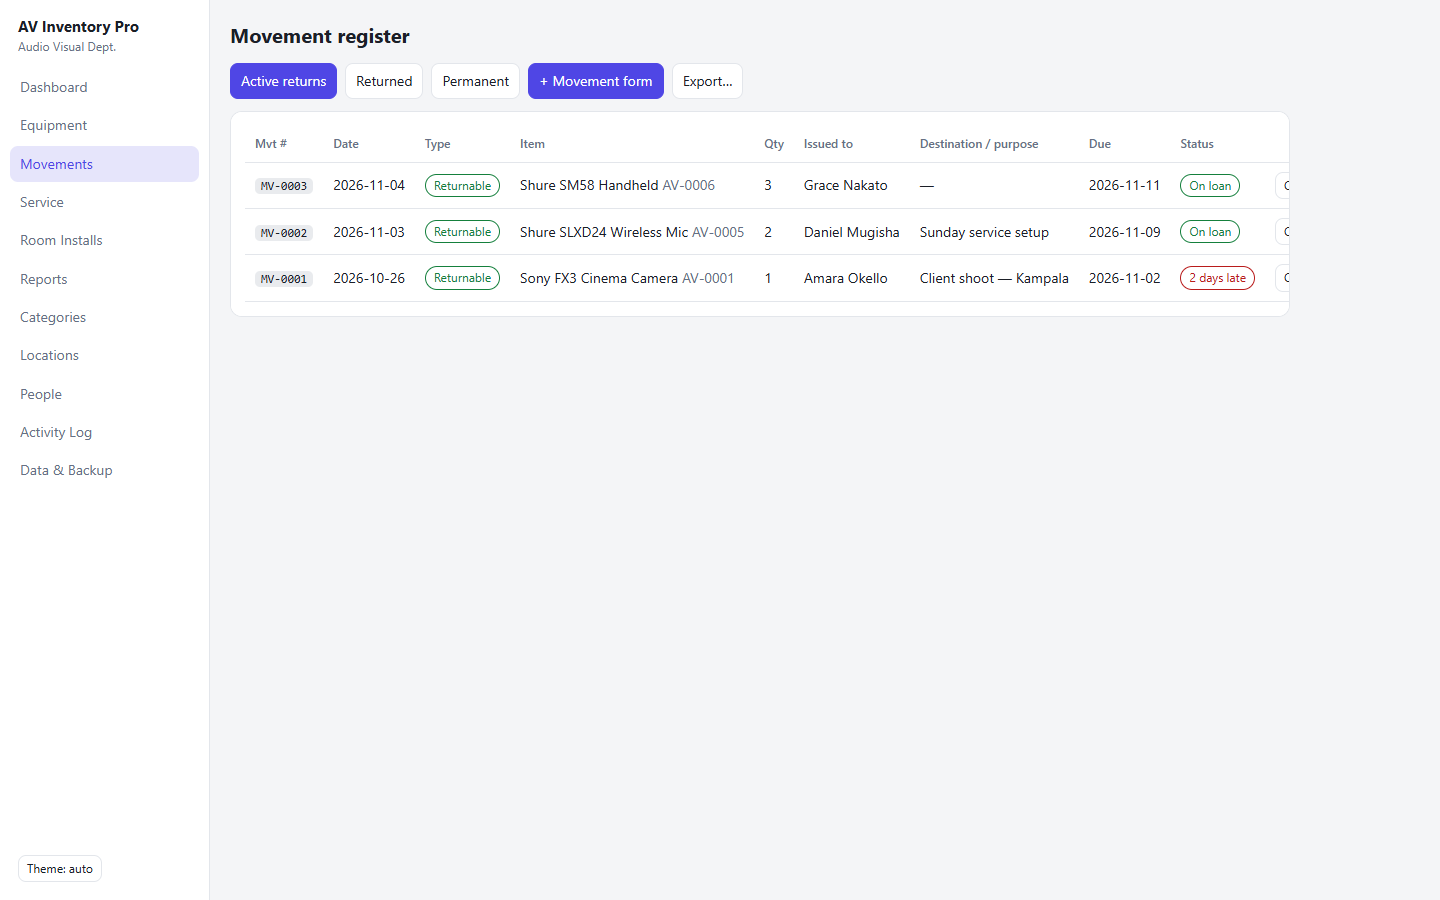
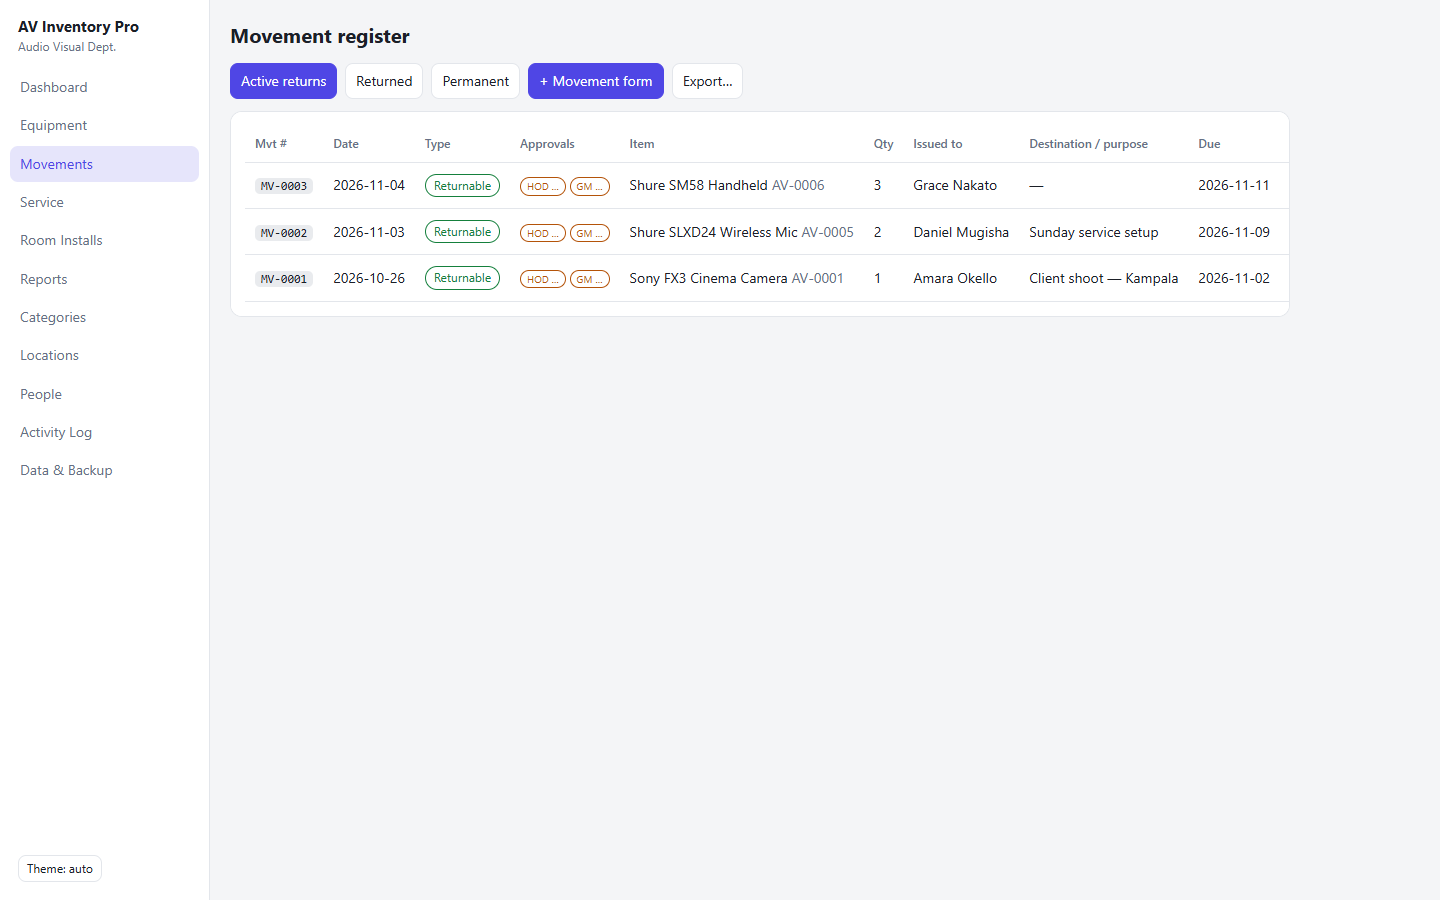
Printable movement form (AV-INV-MF-01) with HOD & GM/AGM approval blocks; in-app approval tracking (chips + dialog); Save & print form

Changed region(s): [[0.3438, 0.2489, 0.875, 0.3422], [0.3438, 0.1556, 0.875, 0.2178]]

diff --git a/app.js b/app.js
@@ -36,7 +36,7 @@ function migrate(s) {
     if (!i.sku) i.sku = nextSku(used);
     i.serials ??= ''; i.supplier ??= ''; i.purchased ??= ''; i.nextsvc ??= ''; i.notes ??= '';
   });
-  (s.co || []).forEach(c => { c.qty = c.qty || 1; c.type ??= 'returnable'; c.mvt ??= ''; c.reason ??= ''; c.dest ??= ''; });
+  (s.co || []).forEach(c => { c.qty = c.qty || 1; c.type ??= 'returnable'; c.mvt ??= ''; c.reason ??= ''; c.dest ??= ''; c.appr = normAppr(c.appr); });
   (s.people || []).forEach(p => { p.contact ??= ''; });
   return s;
 }
@@ -286,6 +286,9 @@ function delItem(id) {
 }
 
 /* ---------- movement register (returnable & permanent) ---------- */
+const ORG = { name: 'Stereo 1 Production', sub: 'Sound · Lighting · Staging · Live-stream AV — Kampala, Uganda' }; /* edit for your organisation */
+const defAppr = () => ({ hod: { n: '', d: '', s: 'Pending' }, gm: { n: '', d: '', s: 'Pending' } });
+function normAppr(a) { a = a && typeof a == 'object' ? a : {}; const fix = (x, d) => ({ n: (x && x.n) || '', d: (x && x.d) || '', s: x && ['Approved', 'Rejected'].includes(x.s) ? x.s : 'Pending' }); return { hod: fix(a.hod, defAppr().hod), gm: fix(a.gm, defAppr().gm) }; }
 function nextMvt() { let m = 0; S.co.forEach(c => { const x = /^MV-(\d+)$/.exec(c.mvt || ''); if (x) m = Math.max(m, +x[1]); }); return 'MV-' + String(m + 1).padStart(4, '0'); }
 const MVTTYPE = { returnable: ['Returnable', 'ok'], transfer: ['Transfer', 'wn'], consumed: ['Written off', 'er'] };
 function co() {
@@ -296,15 +299,16 @@ function co() {
   <button class="${tab == 'hist' ? 'on' : ''}" onclick="tab='hist';render()">Returned</button>
   <button class="${tab == 'perm' ? 'on' : ''}" onclick="tab='perm';render()">Permanent</button>
   <button class="p" onclick="coForm()">+ Movement form</button><button onclick="coExp()">Export…</button></div>
-  <div class="card tw"><table><tr><th>Mvt #</th><th>Date</th><th>Type</th><th>Item</th><th>Qty</th><th>Issued to</th><th>Destination / purpose</th><th>Due</th><th>Status</th><th></th></tr>
-  ${list.map(c => { const it = S.items.find(x => x.id == c.item); const tt = MVTTYPE[c.type] || MVTTYPE.returnable;
-    return `<tr><td><code>${esc(c.mvt || '—')}</code></td><td>${c.out}</td><td><span class="tag ${tt[1]}">${tt[0]}</span></td>
+  <div class="card tw"><table><tr><th>Mvt #</th><th>Date</th><th>Type</th><th>Approvals</th><th>Item</th><th>Qty</th><th>Issued to</th><th>Destination / purpose</th><th>Due</th><th>Status</th><th></th></tr>
+  ${list.map(c => { const it = S.items.find(x => x.id == c.item); const tt = MVTTYPE[c.type] || MVTTYPE.returnable; const ap = normAppr(c.appr);
+    const chip = (k, lbl) => { const a = ap[k]; const cls = a.s == 'Approved' ? 'ok' : a.s == 'Rejected' ? 'er' : 'wn'; return `<span class="tag ${cls}" style="font-size:10px;padding:1px 6px">${lbl} ${a.s == 'Approved' ? '✓' : a.s == 'Rejected' ? '✗' : '…'}</span>`; };
+    return `<tr><td><code>${esc(c.mvt || '—')}</code></td><td>${c.out}</td><td><span class="tag ${tt[1]}">${tt[0]}</span></td><td>${chip('hod', 'HOD')} ${chip('gm', 'GM')}</td>
     <td>${it ? `${esc(it.n)} <span class="mu">${esc(it.sku)}</span>` : '<span class="mu">deleted item</span>'}</td>
     <td>${c.qty || 1}</td><td>${esc(nm('people', c.who))}</td>
     <td>${c.type == 'transfer' && c.dest ? `${esc(nm('locs', c.dest))}${c.reason ? ' — ' + esc(c.reason) : ''}` : esc(c.reason || '—')}</td>
     <td>${c.type == 'returnable' ? c.due : '—'}</td>
     <td>${c.type != 'returnable' ? `<span class="tag ${tt[1]}">Closed ${c.back || ''}</span>` : c.back ? esc(c.back) : overdue(c) ? `<span class="tag er">${late(c)} day${late(c) > 1 ? 's' : ''} late</span>` : '<span class="tag ok">On loan</span>'}</td>
-    <td>${c.type == 'returnable' && !c.back ? `<button class="s" onclick="checkin('${c.id}')">Check in</button>` : ''}</td></tr>`; }).join('') || '<tr><td colspan="10" class="mu">Nothing here</td></tr>'}</table></div>`;
+    <td>${c.type == 'returnable' && !c.back ? `<button class="s" onclick="checkin('${c.id}')">Check in</button> ` : ''}${c.mvt ? `<button class="s" onclick="printMvtForm('${c.mvt}')">Form</button> ` : ''}<button class="s" onclick="apprForm('${c.id}')">Appr…</button></td></tr>`; }).join('') || '<tr><td colspan="11" class="mu">Nothing here</td></tr>'}</table></div>`;
 }
 function coExp() {
   const H = ['Mvt #', 'Date', 'Type', 'Item', 'SKU', 'Qty', 'Issued to', 'Destination / purpose', 'Due', 'Status'];
@@ -328,7 +332,7 @@ function coForm(pre) {
   <div id="dueRow"><label>Due date<input id="m3" type="date" value="${day(7)}"></label></div>
   <div id="destRow" style="display:none"><label>Destination location${sel('locs', '', 'm4')}</label></div>
   <label>Destination / purpose — notes<input id="m5" placeholder="e.g. Client wedding at Speke Resort / moved to Storage Cage"></label>
-  <div class="row"><button class="p" onclick="mvtSave()">Save movement</button><button onclick="$('#dlg').close()">Cancel</button></div>`);
+  <div class="row"><button class="p" onclick="mvtSave()">Save movement</button><button class="p" onclick="mvtSave(true)">Save & print form</button><button onclick="$('#dlg').close()">Cancel</button></div>`);
   addLine();
   if (pre) { const sel1 = $('#lines .ml-item'); if (sel1) { sel1.value = pre; syncLine($('#lines .mvt-line')); } }
   mvtTypeUi();
@@ -362,7 +366,7 @@ function mvtSave() {
     const due = $('#m3').value;
     if (!due) return alert('Due date is required for returnable movements.');
     for (const l of lines) if (l.qty > avail(l.item)) return alert('Only ' + avail(l.item) + ' of ' + l.item.n + ' available.');
-    lines.forEach(l => S.co.push({ id: uid(), mvt, type, item: l.item.id, who, qty: l.qty, out: day(0), due, back: null, reason, dest: '' }));
+    lines.forEach(l => S.co.push({ id: uid(), mvt, type, item: l.item.id, who, qty: l.qty, out: day(0), due, back: null, reason, dest: '', appr: defAppr() }));
     log(`${mvt}: ${lines.map(l => l.item.n + ' ×' + l.qty).join(', ')} issued to ${nm('people', who)} (returnable, due ${due})`);
   } else if (type == 'transfer') {
     const dest = $('#m4').value;
@@ -376,15 +380,75 @@ function mvtSave() {
       const dst = S.items.find(x => x.n == l.item.n && x.cat == l.item.cat && x.loc == dest);
       if (dst) dst.qty += l.qty;
       else S.items.push({ id: uid(), sku: nextSku(new Set(S.items.map(x => x.sku).filter(Boolean))), n: l.item.n, cat: l.item.cat, loc: dest, qty: l.qty, min: 0, price: l.item.price, supplier: l.item.supplier || '', purchased: l.item.purchased || '', serials: '', nextsvc: '', notes: 'Transferred from ' + l.item.sku });
-      S.co.push({ id: uid(), mvt, type, item: l.item.id, who, qty: l.qty, out: day(0), due: '', back: day(0), reason, dest });
+      S.co.push({ id: uid(), mvt, type, item: l.item.id, who, qty: l.qty, out: day(0), due: '', back: day(0), reason, dest, appr: defAppr() });
     });
     log(`${mvt}: ${lines.map(l => l.item.n + ' ×' + l.qty).join(', ')} transferred to ${nm('locs', dest)} (permanent)`);
   } else {
     for (const l of lines) if (l.qty > avail(l.item)) return alert('Only ' + avail(l.item) + ' of ' + l.item.n + ' available.');
-    lines.forEach(l => { l.item.qty -= l.qty; S.co.push({ id: uid(), mvt, type, item: l.item.id, who, qty: l.qty, out: day(0), due: '', back: day(0), reason, dest: '' }); });
+    lines.forEach(l => { l.item.qty -= l.qty; S.co.push({ id: uid(), mvt, type, item: l.item.id, who, qty: l.qty, out: day(0), due: '', back: day(0), reason, dest: '', appr: defAppr() }); });
     log(`${mvt}: ${lines.map(l => l.item.n + ' ×' + l.qty).join(', ')} consumed / written off (permanent)`);
   }
   $('#dlg').close(); render();
+  if (print) printMvtForm(mvt);
+}
+function apprForm(id) {
+  const c = S.co.find(x => x.id == id);
+  const a = normAppr(c.appr);
+  dlg(`<h3>Approvals — ${esc(c.mvt || 'movement')}</h3>
+  <label>HOD — Head of Department decision<select id="a1">${opts(['Pending', 'Approved', 'Rejected'], a.hod.s)}</select></label>
+  <label>HOD name<input id="a2" value="${esc(a.hod.n)}"></label>
+  <label>HOD date<input id="a3" type="date" value="${a.hod.d}"></label>
+  <label>GM / AGM decision<select id="a4">${opts(['Pending', 'Approved', 'Rejected'], a.gm.s)}</select></label>
+  <label>GM / AGM name<input id="a5" value="${esc(a.gm.n)}"></label>
+  <label>GM / AGM date<input id="a6" type="date" value="${a.gm.d}"></label>
+  <div class="row"><button class="p" onclick="saveAppr('${id}')">Save</button><button onclick="$('#dlg').close()">Cancel</button></div>`);
+}
+function saveAppr(id) {
+  const c = S.co.find(x => x.id == id);
+  const appr = { hod: { s: $('#a1').value, n: $('#a2').value.trim(), d: $('#a3').value }, gm: { s: $('#a4').value, n: $('#a5').value.trim(), d: $('#a6').value } };
+  (c.mvt ? S.co.filter(x => x.mvt == c.mvt) : [c]).forEach(x => x.appr = normAppr(appr));
+  log(`Approvals for ${c.mvt || 'movement'}: HOD ${appr.hod.s}, GM/AGM ${appr.gm.s}`);
+  $('#dlg').close(); render();
+}
+/* printable approval voucher: header + items + sign-off + HOD / GM-AGM approval blocks */
+function printMvtForm(mvt) {
+  const lines = mvt ? S.co.filter(c => c.mvt == mvt) : [];
+  if (!lines.length) return alert('This movement has no number yet — create it with the movement form first.');
+  const c0 = lines[0], isRet = c0.type == 'returnable', ap = normAppr(c0.appr);
+  const rows = lines.map((c, i) => { const it = S.items.find(x => x.id == c.item); return `<tr><td style="text-align:center">${i + 1}</td><td>${esc(it ? it.sku : '—')}</td><td>${esc(it ? it.n : 'deleted item')}</td><td style="text-align:center">${c.qty || 1}</td><td>${esc((it && it.serials) || '')}</td></tr>`; }).join('');
+  const box = (title, isAppr, dec, name, date) => `<div class="box"><h4>${title}</h4>${isAppr ? `<div class="chk"><label><input type="checkbox" ${dec == 'Approved' ? 'checked' : ''} disabled> Approved</label> &nbsp;&nbsp; <label><input type="checkbox" ${dec == 'Rejected' ? 'checked' : ''} disabled> Rejected</label></div>` : ''}<div class="line"></div><div class="cap">Name${name ? ': ' + esc(name) : ''}</div><div class="line"></div><div class="cap">Signature${date ? ' — Date: ' + esc(date) : ' & date'}</div></div>`;
+  const w = window.open('', '_blank', 'width=880,height=1000');
+  if (!w) return alert('Allow pop-ups to print the movement form.');
+  w.document.write(`<!doctype html><html><head><title>Movement form ${esc(mvt)}</title><style>
+  @page{size:A4;margin:12mm}body{font:11px/1.4 'Segoe UI',system-ui,sans-serif;color:#111;margin:0}
+  .hdr{display:flex;justify-content:space-between;align-items:flex-end;border-bottom:2.5px solid #111;padding-bottom:8px}
+  .org{font-size:21px;font-weight:800;letter-spacing:.3px}.orgsub{font-size:10px;color:#444;margin-top:2px}
+  .ftitle{text-align:right;font-size:14px;font-weight:800;letter-spacing:1.2px;line-height:1.3}
+  table.meta{width:100%;border-collapse:collapse;margin-top:10px}table.meta td{padding:3px 10px 3px 0;font-size:11px;vertical-align:top}
+  .sec{margin-top:16px;font-weight:800;font-size:10.5px;text-transform:uppercase;letter-spacing:.6px;border-bottom:1.5px solid #111;padding-bottom:3px}
+  table.items{width:100%;border-collapse:collapse;margin-top:6px}table.items th,table.items td{border:1px solid #8a8a8a;padding:5px 7px;font-size:10.5px;text-align:left}
+  table.items th{background:#ececec;font-size:9.5px;text-transform:uppercase;letter-spacing:.4px}
+  .sign{display:flex;gap:20px;margin-top:8px}.box{flex:1;border:1px solid #b5b5b5;border-radius:6px;padding:10px;min-height:120px}
+  .box h4{margin:0 0 6px;font-size:10px;text-transform:uppercase;letter-spacing:.5px}.chk{font-size:10.5px;margin-bottom:2px}.chk label{cursor:default}
+  .line{border-bottom:1px solid #444;height:24px;margin-top:10px}.cap{font-size:9px;color:#555;margin-top:3px}
+  .ft{margin-top:16px;border-top:1px solid #999;padding-top:6px;font-size:8.5px;color:#555;display:flex;justify-content:space-between;gap:12px;flex-wrap:wrap}
+  @media print{.noprint{display:none}}
+  </style></head><body>
+  <div class="hdr"><div><div class="org">${esc(ORG.name)}</div><div class="orgsub">${esc(ORG.sub)}</div></div><div class="ftitle">EQUIPMENT<br>MOVEMENT FORM</div></div>
+  <table class="meta">
+  <tr><td style="width:50%"><b>Movement No:</b> ${esc(mvt)}</td><td><b>Date of issue:</b> ${esc(c0.out)}</td></tr>
+  <tr><td><b>Type:</b> ${isRet ? 'RETURNABLE — item(s) must come back' : 'PERMANENT — transfer / write-off, no return'}</td><td>${isRet ? `<b>Due date:</b> ${esc(c0.due || '')}` : '<b>Return expected:</b> No'}</td></tr>
+  <tr><td><b>Issued to:</b> ${esc(nm('people', c0.who))}</td><td><b>Destination / purpose:</b> ${c0.type == 'transfer' && c0.dest ? esc(nm('locs', c0.dest)) + (c0.reason ? ' — ' + esc(c0.reason) : '') : esc(c0.reason || '—')}</td></tr>
+  </table>
+  <div class="sec">Items</div>
+  <table class="items"><tr><th style="width:5%">#</th><th style="width:14%">SKU</th><th>Item description</th><th style="width:7%">Qty</th><th style="width:30%">Serial no. / remarks</th></tr>${rows}</table>
+  <div class="sec">Sign-off on issue</div>
+  <div class="sign">${box('Issued by (AV officer)', false)}${box('Received by (bearer)', false)}</div>
+  <div class="sec">Approval — required before items are released</div>
+  <div class="sign">${box('HOD — Head of Department', true, ap.hod.s, ap.hod.n, ap.hod.d)}${box('GM / AGM — General Manager', true, ap.gm.s, ap.gm.n, ap.gm.d)}</div>
+  <div class="ft"><span>Form AV-INV-MF-01 · ${esc(mvt)}</span><span>${isRet ? 'Items must be returned by the due date; the bearer is responsible until check-in.' : 'Stock records are updated on approval.'}</span><span>Not valid without HOD and GM/AGM approval</span></div>
+  <script>window.onload=function(){setTimeout(function(){window.print()},250)}</script></body></html>`);
+  w.document.close();
 }
 function checkin(id) {
   const c = S.co.find(x => x.id == id);

diff --git a/README.md b/README.md
@@ -15,6 +15,10 @@ dependencies** and no build step.
 | --- | --- |
 | ![Item detail](docs/screenshots/item-detail.png) | ![Reports](docs/screenshots/reports.png) |
 
+| Movements register | Printable approval form |
+| --- | --- |
+| ![Movements](docs/screenshots/movements.png) | ![Movement form](docs/screenshots/movement-form.png) |
+
 ## Quick start
 
 - **Online:** open the live URL above.
@@ -41,6 +45,13 @@ dependencies** and no build step.
   *Permanent transfer* (quantity physically moves to another location, creating/merging a
   stock line there) and *Permanent consumed / written off* (quantity leaves inventory with
   a recorded reason). Every movement stays in the register under its number.
+- **Approval workflow (HOD & GM/AGM)** — every movement starts as *Pending*; the register
+  shows per-movement HOD/GM chips, and the *Appr…* dialog records each approver's
+  decision, name and date. **Printable form** (form ref `AV-INV-MF-01`): A4 voucher with
+  company header, movement metadata, item table with serials, *Issued by / Received by*
+  sign-off boxes and signature blocks for **HOD** and **GM/AGM** with Approved/Rejected
+  tick boxes — print it from the movement dialog (*Save & print form*) or re-print any
+  recorded movement from the register; recorded approvals pre-fill the form.
 - **Reports** — select a specific **location** (Media Studio, Storage Cage…) or a specific
   **room** (Conference Room A/B, Board Room…) and generate that inventory list, plus a
   summary-per-location table (items, units, value, low/out counts) — each exportable.
